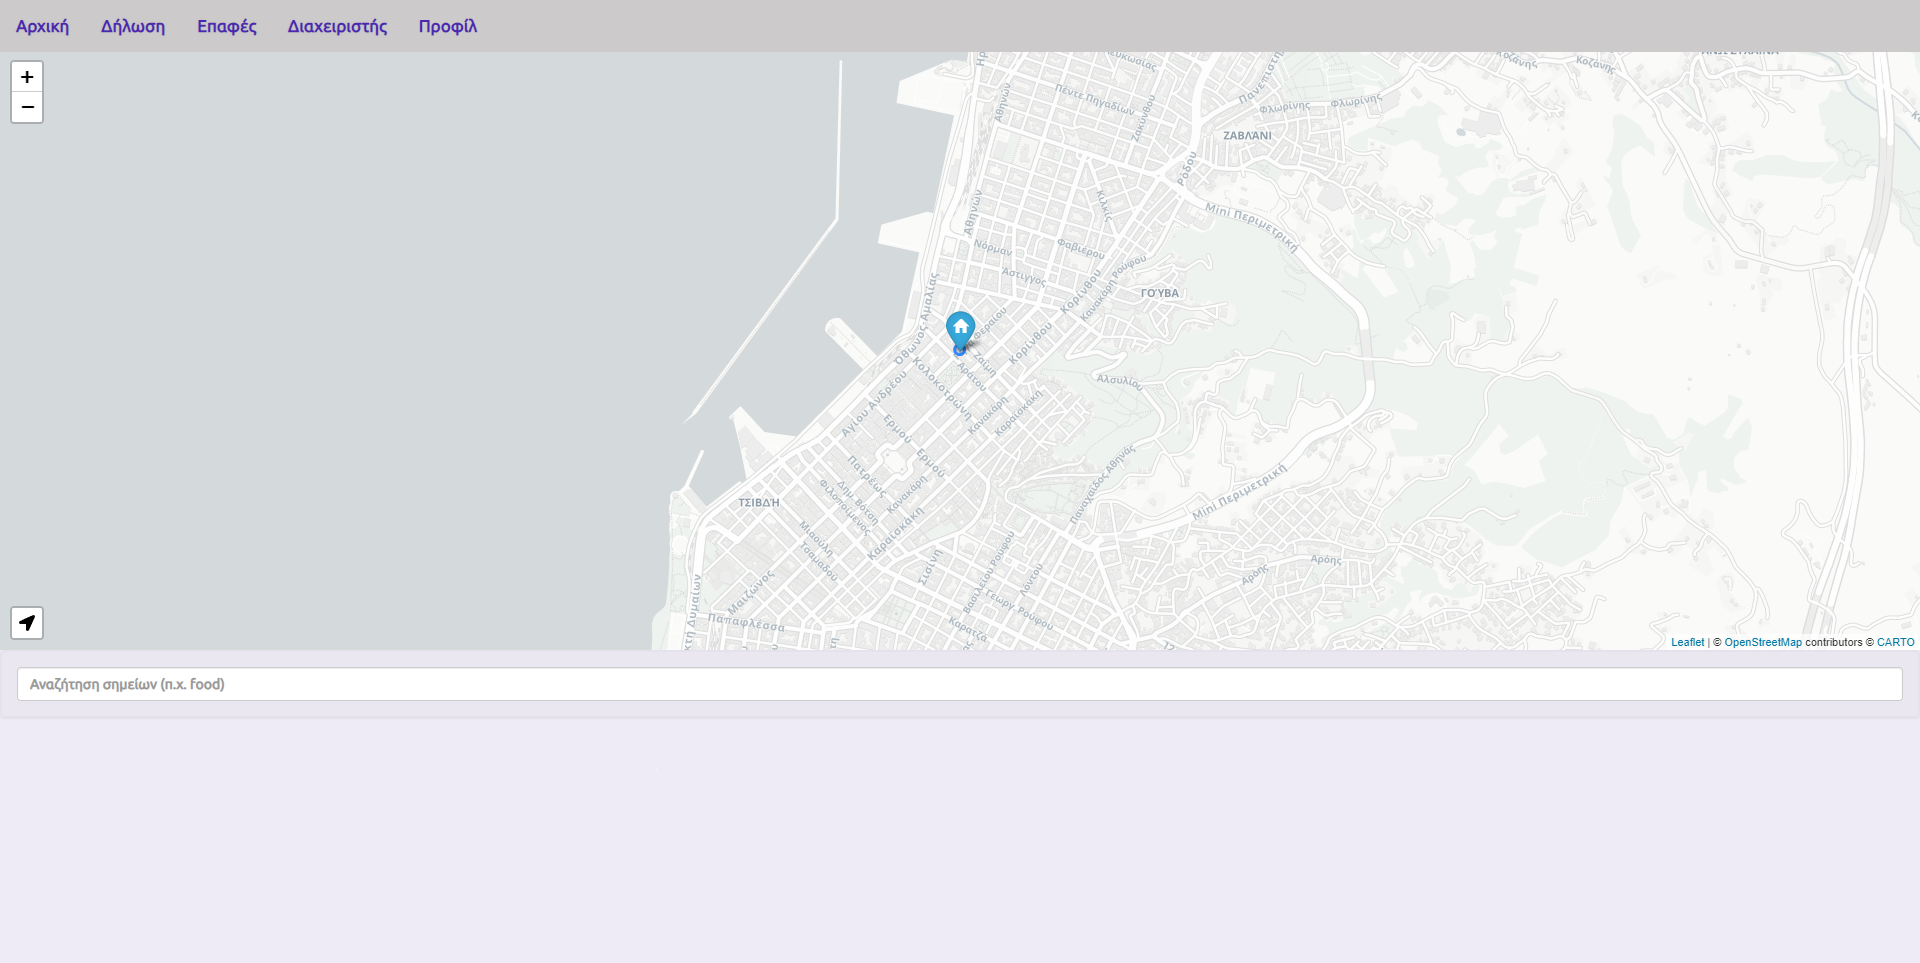
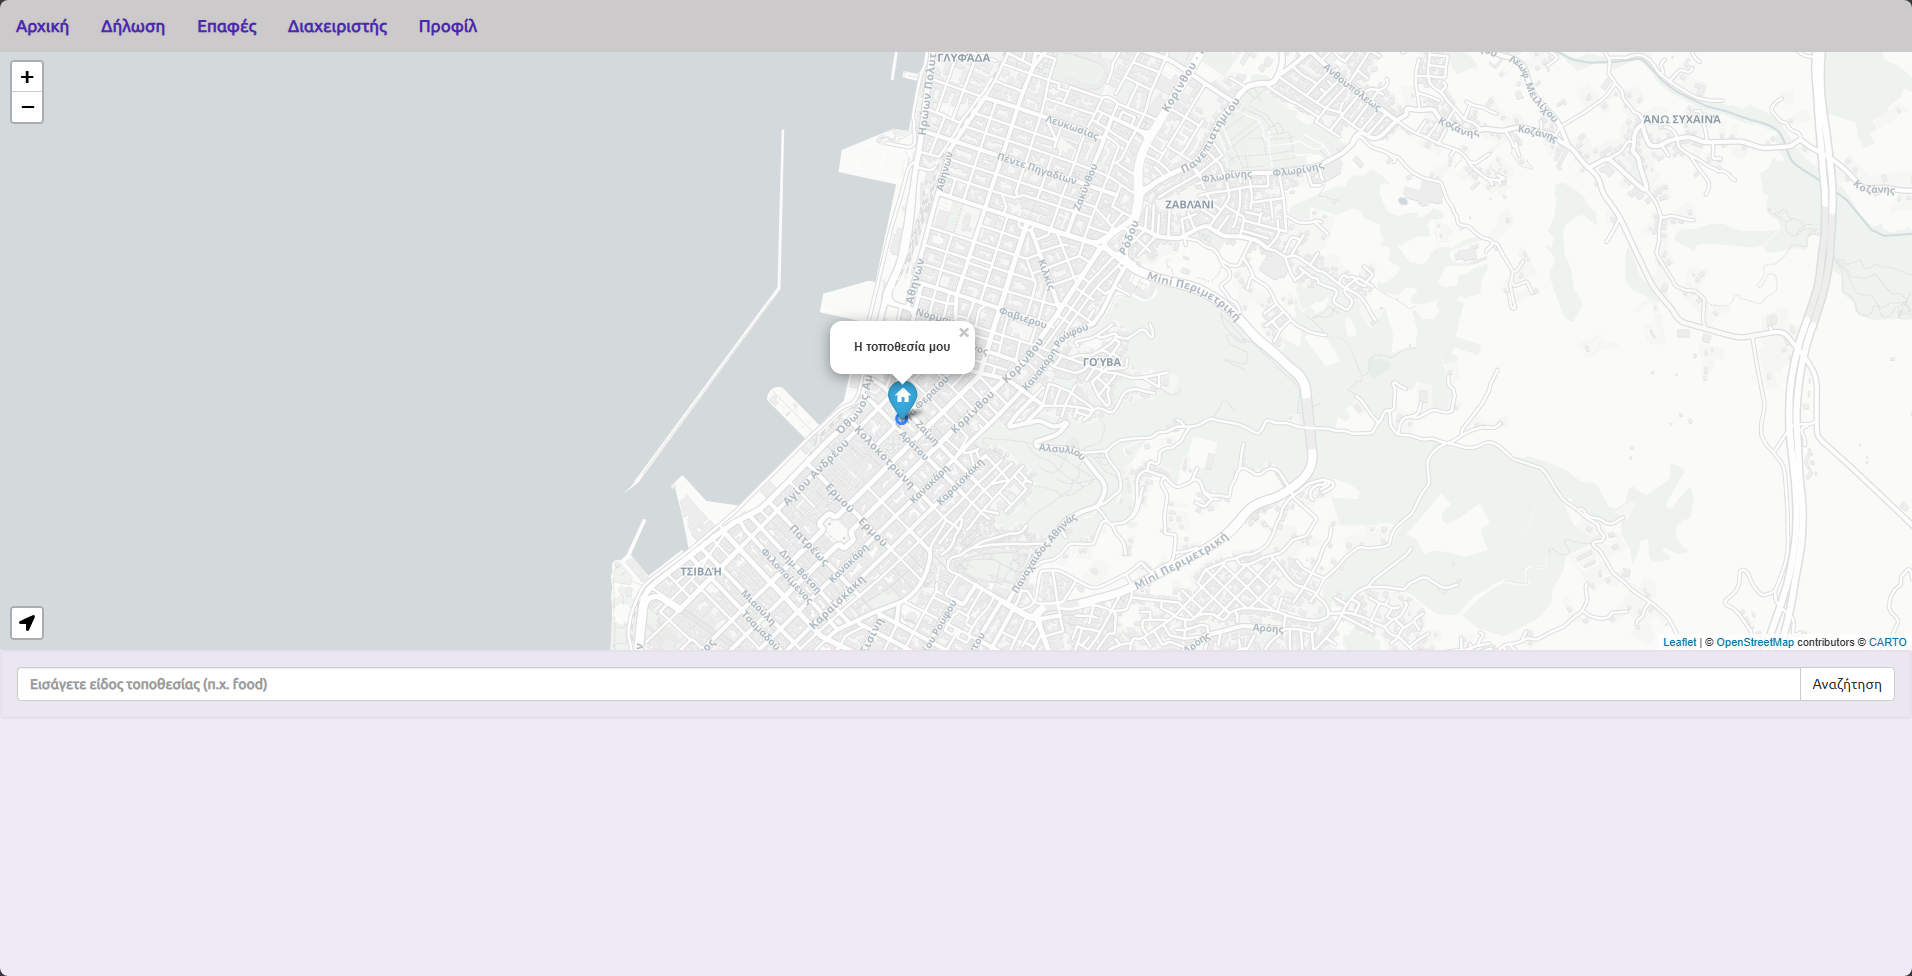
implemented search button

diff --git a/public/map.js b/public/map.js
@@ -78,10 +78,12 @@ const marker = L.marker([fake.lat, fake.lng], {
 L.circle([fake.lat, fake.lng], 20).addTo(myMap);
 myMap.setView([fake.lat, fake.lng], 15);
 
-function submitData(e) {
+function submitData() {
+    const userQuery = document.getElementById("search-box");
     const searchResults = document.getElementById("searchResults");
-    let match = e.value.match(/\s*/);
-    if (match[0] === e.value) {
+    
+    let match = userQuery.value.match(/\s*/);
+    if (match[0] === userQuery.value) {
         searchResults.innerHTML = "";
         return;
     }
@@ -91,7 +93,7 @@ function submitData(e) {
         headers: {
             "Content-Type": "application/json"
         },
-        body: JSON.stringify({ payload: e.value })
+        body: JSON.stringify({ payload: userQuery.value })
     })
     .then((res) => res.json())
     .then((data) => {
